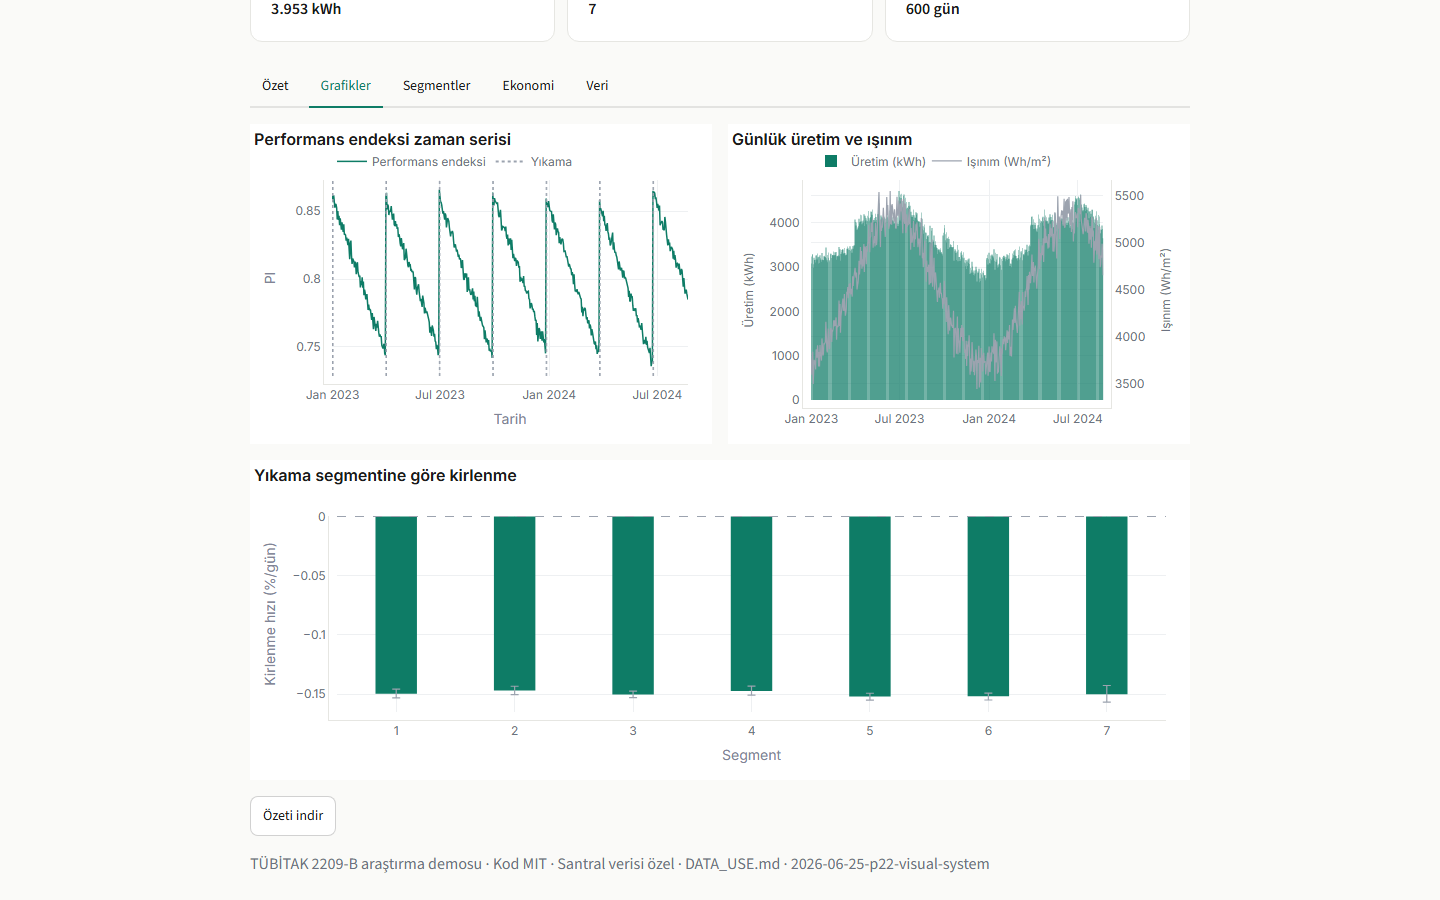
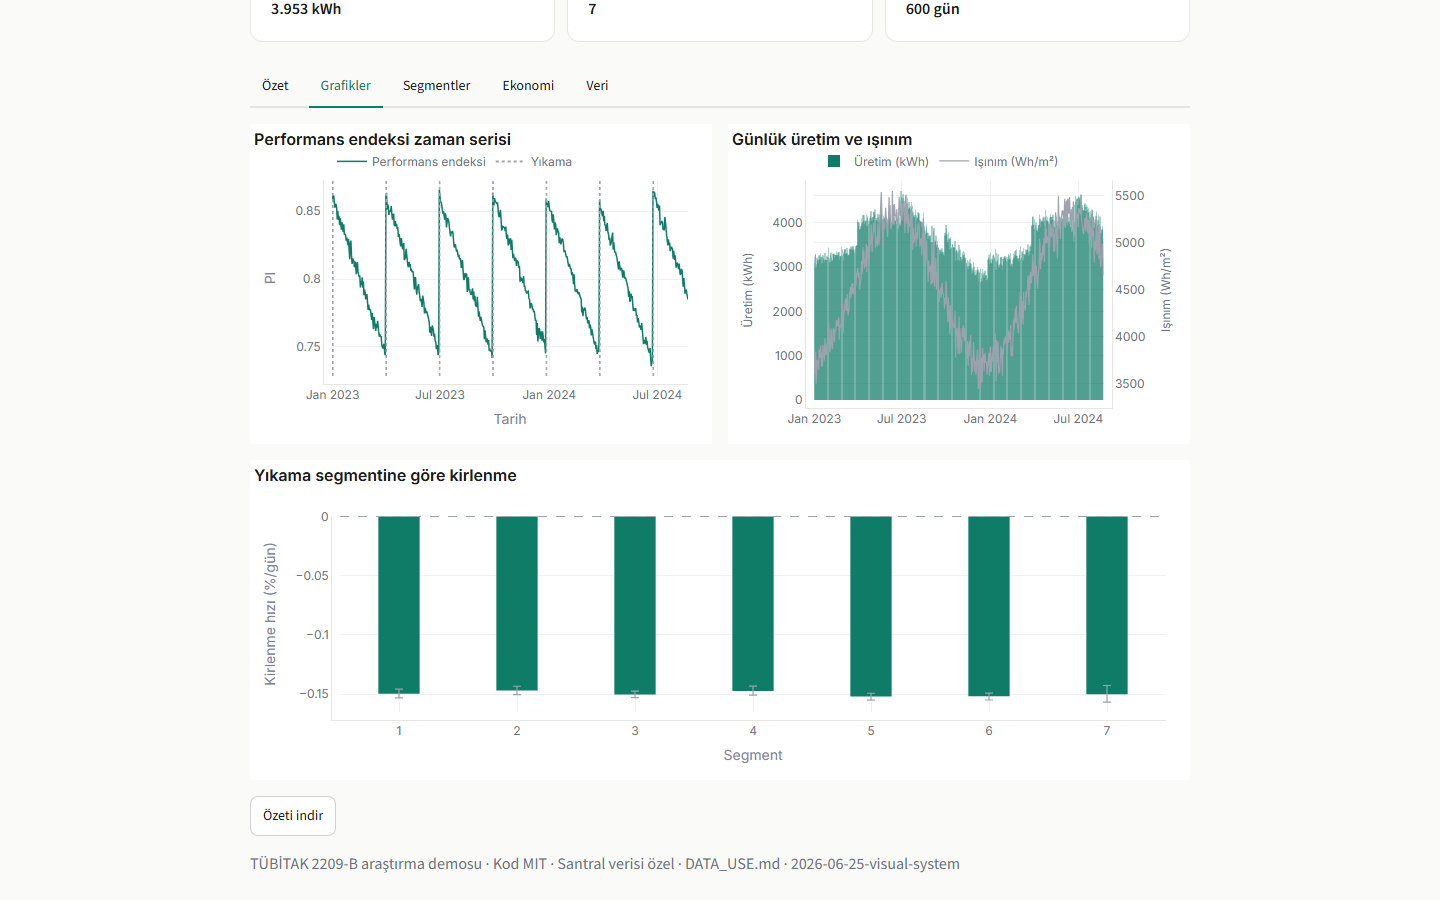
docs: remove phase label from public UI stamp

diff --git a/tests/test_ui_polish.py b/tests/test_ui_polish.py
@@ -27,8 +27,8 @@ STREAMLIT_APP = ROOT / "app" / "streamlit_app.py"
 CONFIG_TOML = ROOT / ".streamlit" / "config.toml"
 
 
-def test_ui_build_tag_is_p22() -> None:
-    assert UI_BUILD == "2026-06-25-p22-visual-system"
+def test_ui_build_tag_is_public_facing() -> None:
+    assert UI_BUILD == "2026-06-25-visual-system"
 
 
 def test_config_toml_uses_teal_theme() -> None:

diff --git a/app/streamlit_app.py b/app/streamlit_app.py
@@ -68,7 +68,7 @@ from app.ui_logic import (
 )
 from spis import config
 
-UI_BUILD = "2026-06-25-p22-visual-system"
+UI_BUILD = "2026-06-25-visual-system"
 
 st.set_page_config(page_title="SPIS", layout="wide", initial_sidebar_state="expanded")
 
